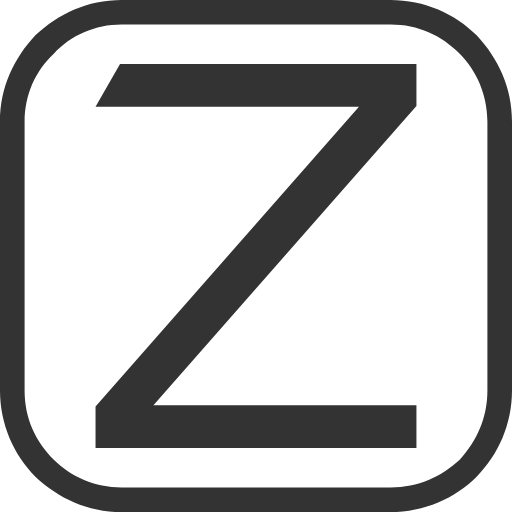
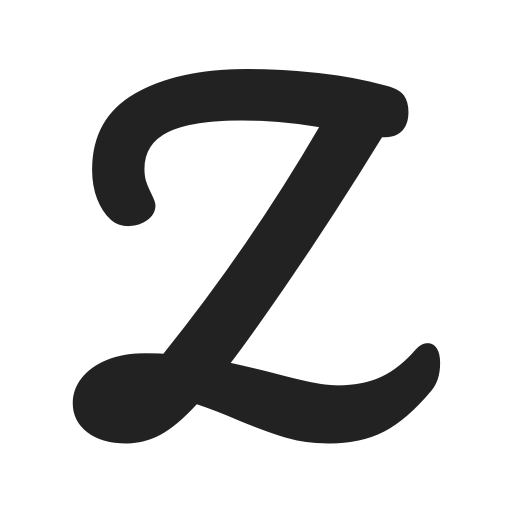
更换favicon ZaNksC/zanks-blog@327454f339bd92b5c9535e444a97a26abed3a063

diff --git a/archives/index.html b/archives/index.html
@@ -73,7 +73,7 @@
   <meta property="og:description" content="archives">
   <meta property="og:locale" content="zh-cn">
   <meta property="og:type" content="article">
-    <meta property="article:modified_time" content="2024-12-30T16:11:58+08:00">
+    <meta property="article:modified_time" content="2024-12-30T16:17:52+08:00">
 <meta name="twitter:card" content="summary">
 <meta name="twitter:title" content="⌛ 时间轴">
 <meta name="twitter:description" content="archives">
@@ -107,7 +107,7 @@
   "wordCount" : "0",
   "inLanguage": "zh",
   "datePublished": "0001-01-01T00:00:00Z",
-  "dateModified": "2024-12-30T16:11:58+08:00",
+  "dateModified": "2024-12-30T16:17:52+08:00",
   "mainEntityOfPage": {
     "@type": "WebPage",
     "@id": "https://www.zanks.link/archives/"
@@ -229,19 +229,19 @@
       <div class="archive-entry">
         <h3 class="archive-entry-title entry-hint-parent">【Hugo】体验篇：Obsidian写作
         </h3>
-        <div class="archive-meta">发布于: <no value> <span title='2024-01-01 04:00:00 +0800 +0800'>2024-01-01</span>&nbsp;·&nbsp;最后修改于: <no value> <span title='2024-12-30 16:11:58 +0800 +0800'>2024-12-30</span>&nbsp;·&nbsp;2 分钟&nbsp;·&nbsp;224 字&nbsp;·&nbsp;Zanks</div>
+        <div class="archive-meta">发布于: <no value> <span title='2024-01-01 04:00:00 +0800 +0800'>2024-01-01</span>&nbsp;·&nbsp;最后修改于: <no value> <span title='2024-12-30 16:17:52 +0800 +0800'>2024-12-30</span>&nbsp;·&nbsp;2 分钟&nbsp;·&nbsp;224 字&nbsp;·&nbsp;Zanks</div>
         <a class="entry-link" aria-label="post link to 【Hugo】体验篇：Obsidian写作" href="https://www.zanks.link/2024/01/01/hugo-3/"></a>
       </div>
       <div class="archive-entry">
         <h3 class="archive-entry-title entry-hint-parent">【Hugo】进阶篇：PaperMod主题美化
         </h3>
-        <div class="archive-meta">发布于: <no value> <span title='2024-01-01 02:00:00 +0800 +0800'>2024-01-01</span>&nbsp;·&nbsp;最后修改于: <no value> <span title='2024-12-30 16:11:58 +0800 +0800'>2024-12-30</span>&nbsp;·&nbsp;17 分钟&nbsp;·&nbsp;3491 字&nbsp;·&nbsp;Zanks</div>
+        <div class="archive-meta">发布于: <no value> <span title='2024-01-01 02:00:00 +0800 +0800'>2024-01-01</span>&nbsp;·&nbsp;最后修改于: <no value> <span title='2024-12-30 16:17:52 +0800 +0800'>2024-12-30</span>&nbsp;·&nbsp;17 分钟&nbsp;·&nbsp;3491 字&nbsp;·&nbsp;Zanks</div>
         <a class="entry-link" aria-label="post link to 【Hugo】进阶篇：PaperMod主题美化" href="https://www.zanks.link/2024/01/01/hugo-2/"></a>
       </div>
       <div class="archive-entry">
         <h3 class="archive-entry-title entry-hint-parent">【Hugo】基础篇：个人博客搭建
         </h3>
-        <div class="archive-meta">发布于: <no value> <span title='2024-01-01 00:00:00 +0800 +0800'>2024-01-01</span>&nbsp;·&nbsp;最后修改于: <no value> <span title='2024-12-30 16:11:58 +0800 +0800'>2024-12-30</span>&nbsp;·&nbsp;5 分钟&nbsp;·&nbsp;987 字&nbsp;·&nbsp;Zanks</div>
+        <div class="archive-meta">发布于: <no value> <span title='2024-01-01 00:00:00 +0800 +0800'>2024-01-01</span>&nbsp;·&nbsp;最后修改于: <no value> <span title='2024-12-30 16:17:52 +0800 +0800'>2024-12-30</span>&nbsp;·&nbsp;5 分钟&nbsp;·&nbsp;987 字&nbsp;·&nbsp;Zanks</div>
         <a class="entry-link" aria-label="post link to 【Hugo】基础篇：个人博客搭建" href="https://www.zanks.link/2024/01/01/hugo-1/"></a>
       </div>
     </div>

diff --git a/posts/index.html b/posts/index.html
@@ -193,7 +193,7 @@
   <div class="entry-content">
     <p>装修一下驾驶舱，让我们扬帆起航。我们应当知道，航海比造船更具魅力与挑战。</p>
   </div>
-  <footer class="entry-footer">发布于: <no value> <span title='2024-01-01 04:00:00 +0800 +0800'>2024-01-01</span>&nbsp;·&nbsp;最后修改于: <no value> <span title='2024-12-30 16:11:58 +0800 +0800'>2024-12-30</span>&nbsp;·&nbsp;2 分钟&nbsp;·&nbsp;224 字&nbsp;·&nbsp;Zanks</footer>
+  <footer class="entry-footer">发布于: <no value> <span title='2024-01-01 04:00:00 +0800 +0800'>2024-01-01</span>&nbsp;·&nbsp;最后修改于: <no value> <span title='2024-12-30 16:17:52 +0800 +0800'>2024-12-30</span>&nbsp;·&nbsp;2 分钟&nbsp;·&nbsp;224 字&nbsp;·&nbsp;Zanks</footer>
   <a class="entry-link" aria-label="post link to 【Hugo】体验篇：Obsidian写作" href="https://www.zanks.link/2024/01/01/hugo-3/"></a>
 </article>
 
@@ -205,7 +205,7 @@
   <div class="entry-content">
     <p>装修一下旧时代的船，才能开门迎接更多的客人。</p>
   </div>
-  <footer class="entry-footer">发布于: <no value> <span title='2024-01-01 02:00:00 +0800 +0800'>2024-01-01</span>&nbsp;·&nbsp;最后修改于: <no value> <span title='2024-12-30 16:11:58 +0800 +0800'>2024-12-30</span>&nbsp;·&nbsp;17 分钟&nbsp;·&nbsp;3491 字&nbsp;·&nbsp;Zanks</footer>
+  <footer class="entry-footer">发布于: <no value> <span title='2024-01-01 02:00:00 +0800 +0800'>2024-01-01</span>&nbsp;·&nbsp;最后修改于: <no value> <span title='2024-12-30 16:17:52 +0800 +0800'>2024-12-30</span>&nbsp;·&nbsp;17 分钟&nbsp;·&nbsp;3491 字&nbsp;·&nbsp;Zanks</footer>
   <a class="entry-link" aria-label="post link to 【Hugo】进阶篇：PaperMod主题美化" href="https://www.zanks.link/2024/01/01/hugo-2/"></a>
 </article>
 
@@ -217,7 +217,7 @@
   <div class="entry-content">
     <p>旧时代的船，想要载新世界的梦</p>
   </div>
-  <footer class="entry-footer">发布于: <no value> <span title='2024-01-01 00:00:00 +0800 +0800'>2024-01-01</span>&nbsp;·&nbsp;最后修改于: <no value> <span title='2024-12-30 16:11:58 +0800 +0800'>2024-12-30</span>&nbsp;·&nbsp;5 分钟&nbsp;·&nbsp;987 字&nbsp;·&nbsp;Zanks</footer>
+  <footer class="entry-footer">发布于: <no value> <span title='2024-01-01 00:00:00 +0800 +0800'>2024-01-01</span>&nbsp;·&nbsp;最后修改于: <no value> <span title='2024-12-30 16:17:52 +0800 +0800'>2024-12-30</span>&nbsp;·&nbsp;5 分钟&nbsp;·&nbsp;987 字&nbsp;·&nbsp;Zanks</footer>
   <a class="entry-link" aria-label="post link to 【Hugo】基础篇：个人博客搭建" href="https://www.zanks.link/2024/01/01/hugo-1/"></a>
 </article>
     </main>

diff --git a/tags/hugo/index.html b/tags/hugo/index.html
@@ -181,7 +181,7 @@
   <div class="entry-content">
     <p>装修一下驾驶舱，让我们扬帆起航。我们应当知道，航海比造船更具魅力与挑战。</p>
   </div>
-  <footer class="entry-footer">发布于: <no value> <span title='2024-01-01 04:00:00 +0800 +0800'>2024-01-01</span>&nbsp;·&nbsp;最后修改于: <no value> <span title='2024-12-30 16:11:58 +0800 +0800'>2024-12-30</span>&nbsp;·&nbsp;2 分钟&nbsp;·&nbsp;224 字&nbsp;·&nbsp;Zanks</footer>
+  <footer class="entry-footer">发布于: <no value> <span title='2024-01-01 04:00:00 +0800 +0800'>2024-01-01</span>&nbsp;·&nbsp;最后修改于: <no value> <span title='2024-12-30 16:17:52 +0800 +0800'>2024-12-30</span>&nbsp;·&nbsp;2 分钟&nbsp;·&nbsp;224 字&nbsp;·&nbsp;Zanks</footer>
   <a class="entry-link" aria-label="post link to 【Hugo】体验篇：Obsidian写作" href="https://www.zanks.link/2024/01/01/hugo-3/"></a>
 </article>
 
@@ -193,7 +193,7 @@
   <div class="entry-content">
     <p>装修一下旧时代的船，才能开门迎接更多的客人。</p>
   </div>
-  <footer class="entry-footer">发布于: <no value> <span title='2024-01-01 02:00:00 +0800 +0800'>2024-01-01</span>&nbsp;·&nbsp;最后修改于: <no value> <span title='2024-12-30 16:11:58 +0800 +0800'>2024-12-30</span>&nbsp;·&nbsp;17 分钟&nbsp;·&nbsp;3491 字&nbsp;·&nbsp;Zanks</footer>
+  <footer class="entry-footer">发布于: <no value> <span title='2024-01-01 02:00:00 +0800 +0800'>2024-01-01</span>&nbsp;·&nbsp;最后修改于: <no value> <span title='2024-12-30 16:17:52 +0800 +0800'>2024-12-30</span>&nbsp;·&nbsp;17 分钟&nbsp;·&nbsp;3491 字&nbsp;·&nbsp;Zanks</footer>
   <a class="entry-link" aria-label="post link to 【Hugo】进阶篇：PaperMod主题美化" href="https://www.zanks.link/2024/01/01/hugo-2/"></a>
 </article>
 
@@ -205,7 +205,7 @@
   <div class="entry-content">
     <p>旧时代的船，想要载新世界的梦</p>
   </div>
-  <footer class="entry-footer">发布于: <no value> <span title='2024-01-01 00:00:00 +0800 +0800'>2024-01-01</span>&nbsp;·&nbsp;最后修改于: <no value> <span title='2024-12-30 16:11:58 +0800 +0800'>2024-12-30</span>&nbsp;·&nbsp;5 分钟&nbsp;·&nbsp;987 字&nbsp;·&nbsp;Zanks</footer>
+  <footer class="entry-footer">发布于: <no value> <span title='2024-01-01 00:00:00 +0800 +0800'>2024-01-01</span>&nbsp;·&nbsp;最后修改于: <no value> <span title='2024-12-30 16:17:52 +0800 +0800'>2024-12-30</span>&nbsp;·&nbsp;5 分钟&nbsp;·&nbsp;987 字&nbsp;·&nbsp;Zanks</footer>
   <a class="entry-link" aria-label="post link to 【Hugo】基础篇：个人博客搭建" href="https://www.zanks.link/2024/01/01/hugo-1/"></a>
 </article>
     </main>

diff --git a/tags/建站/index.html b/tags/建站/index.html
@@ -181,7 +181,7 @@
   <div class="entry-content">
     <p>装修一下驾驶舱，让我们扬帆起航。我们应当知道，航海比造船更具魅力与挑战。</p>
   </div>
-  <footer class="entry-footer">发布于: <no value> <span title='2024-01-01 04:00:00 +0800 +0800'>2024-01-01</span>&nbsp;·&nbsp;最后修改于: <no value> <span title='2024-12-30 16:11:58 +0800 +0800'>2024-12-30</span>&nbsp;·&nbsp;2 分钟&nbsp;·&nbsp;224 字&nbsp;·&nbsp;Zanks</footer>
+  <footer class="entry-footer">发布于: <no value> <span title='2024-01-01 04:00:00 +0800 +0800'>2024-01-01</span>&nbsp;·&nbsp;最后修改于: <no value> <span title='2024-12-30 16:17:52 +0800 +0800'>2024-12-30</span>&nbsp;·&nbsp;2 分钟&nbsp;·&nbsp;224 字&nbsp;·&nbsp;Zanks</footer>
   <a class="entry-link" aria-label="post link to 【Hugo】体验篇：Obsidian写作" href="https://www.zanks.link/2024/01/01/hugo-3/"></a>
 </article>
 
@@ -193,7 +193,7 @@
   <div class="entry-content">
     <p>装修一下旧时代的船，才能开门迎接更多的客人。</p>
   </div>
-  <footer class="entry-footer">发布于: <no value> <span title='2024-01-01 02:00:00 +0800 +0800'>2024-01-01</span>&nbsp;·&nbsp;最后修改于: <no value> <span title='2024-12-30 16:11:58 +0800 +0800'>2024-12-30</span>&nbsp;·&nbsp;17 分钟&nbsp;·&nbsp;3491 字&nbsp;·&nbsp;Zanks</footer>
+  <footer class="entry-footer">发布于: <no value> <span title='2024-01-01 02:00:00 +0800 +0800'>2024-01-01</span>&nbsp;·&nbsp;最后修改于: <no value> <span title='2024-12-30 16:17:52 +0800 +0800'>2024-12-30</span>&nbsp;·&nbsp;17 分钟&nbsp;·&nbsp;3491 字&nbsp;·&nbsp;Zanks</footer>
   <a class="entry-link" aria-label="post link to 【Hugo】进阶篇：PaperMod主题美化" href="https://www.zanks.link/2024/01/01/hugo-2/"></a>
 </article>
 
@@ -205,7 +205,7 @@
   <div class="entry-content">
     <p>旧时代的船，想要载新世界的梦</p>
   </div>
-  <footer class="entry-footer">发布于: <no value> <span title='2024-01-01 00:00:00 +0800 +0800'>2024-01-01</span>&nbsp;·&nbsp;最后修改于: <no value> <span title='2024-12-30 16:11:58 +0800 +0800'>2024-12-30</span>&nbsp;·&nbsp;5 分钟&nbsp;·&nbsp;987 字&nbsp;·&nbsp;Zanks</footer>
+  <footer class="entry-footer">发布于: <no value> <span title='2024-01-01 00:00:00 +0800 +0800'>2024-01-01</span>&nbsp;·&nbsp;最后修改于: <no value> <span title='2024-12-30 16:17:52 +0800 +0800'>2024-12-30</span>&nbsp;·&nbsp;5 分钟&nbsp;·&nbsp;987 字&nbsp;·&nbsp;Zanks</footer>
   <a class="entry-link" aria-label="post link to 【Hugo】基础篇：个人博客搭建" href="https://www.zanks.link/2024/01/01/hugo-1/"></a>
 </article>
     </main>

diff --git a/tags/papermod/index.html b/tags/papermod/index.html
@@ -181,7 +181,7 @@
   <div class="entry-content">
     <p>装修一下旧时代的船，才能开门迎接更多的客人。</p>
   </div>
-  <footer class="entry-footer">发布于: <no value> <span title='2024-01-01 02:00:00 +0800 +0800'>2024-01-01</span>&nbsp;·&nbsp;最后修改于: <no value> <span title='2024-12-30 16:11:58 +0800 +0800'>2024-12-30</span>&nbsp;·&nbsp;17 分钟&nbsp;·&nbsp;3491 字&nbsp;·&nbsp;Zanks</footer>
+  <footer class="entry-footer">发布于: <no value> <span title='2024-01-01 02:00:00 +0800 +0800'>2024-01-01</span>&nbsp;·&nbsp;最后修改于: <no value> <span title='2024-12-30 16:17:52 +0800 +0800'>2024-12-30</span>&nbsp;·&nbsp;17 分钟&nbsp;·&nbsp;3491 字&nbsp;·&nbsp;Zanks</footer>
   <a class="entry-link" aria-label="post link to 【Hugo】进阶篇：PaperMod主题美化" href="https://www.zanks.link/2024/01/01/hugo-2/"></a>
 </article>
 
@@ -193,7 +193,7 @@
   <div class="entry-content">
     <p>旧时代的船，想要载新世界的梦</p>
   </div>
-  <footer class="entry-footer">发布于: <no value> <span title='2024-01-01 00:00:00 +0800 +0800'>2024-01-01</span>&nbsp;·&nbsp;最后修改于: <no value> <span title='2024-12-30 16:11:58 +0800 +0800'>2024-12-30</span>&nbsp;·&nbsp;5 分钟&nbsp;·&nbsp;987 字&nbsp;·&nbsp;Zanks</footer>
+  <footer class="entry-footer">发布于: <no value> <span title='2024-01-01 00:00:00 +0800 +0800'>2024-01-01</span>&nbsp;·&nbsp;最后修改于: <no value> <span title='2024-12-30 16:17:52 +0800 +0800'>2024-12-30</span>&nbsp;·&nbsp;5 分钟&nbsp;·&nbsp;987 字&nbsp;·&nbsp;Zanks</footer>
   <a class="entry-link" aria-label="post link to 【Hugo】基础篇：个人博客搭建" href="https://www.zanks.link/2024/01/01/hugo-1/"></a>
 </article>
     </main>

diff --git a/2024/01/01/hugo-2/index.html b/2024/01/01/hugo-2/index.html
@@ -75,7 +75,7 @@
   <meta property="og:type" content="article">
     <meta property="article:section" content="posts">
     <meta property="article:published_time" content="2024-01-01T02:00:00+08:00">
-    <meta property="article:modified_time" content="2024-12-30T16:11:58+08:00">
+    <meta property="article:modified_time" content="2024-12-30T16:17:52+08:00">
     <meta property="article:tag" content="Hugo">
     <meta property="article:tag" content="PaperMod">
     <meta property="article:tag" content="建站">
@@ -118,7 +118,7 @@
   "wordCount" : "3491",
   "inLanguage": "zh",
   "datePublished": "2024-01-01T02:00:00+08:00",
-  "dateModified": "2024-12-30T16:11:58+08:00",
+  "dateModified": "2024-12-30T16:17:52+08:00",
   "author":{
     "@type": "Person",
     "name": "Zanks"
@@ -231,7 +231,7 @@
     <h1 class="post-title entry-hint-parent" style="margin-top: 10px;">
       【Hugo】进阶篇：PaperMod主题美化
     </h1>
-    <div class="post-meta" style="margin-top: 20px;">发布于: <no value> <span title='2024-01-01 02:00:00 +0800 +0800'>2024-01-01</span>&nbsp;·&nbsp;最后修改于: <no value> <span title='2024-12-30 16:11:58 +0800 +0800'>2024-12-30</span>&nbsp;·&nbsp;17 分钟&nbsp;·&nbsp;3491 字&nbsp;·&nbsp;Zanks
+    <div class="post-meta" style="margin-top: 20px;">发布于: <no value> <span title='2024-01-01 02:00:00 +0800 +0800'>2024-01-01</span>&nbsp;·&nbsp;最后修改于: <no value> <span title='2024-12-30 16:17:52 +0800 +0800'>2024-12-30</span>&nbsp;·&nbsp;17 分钟&nbsp;·&nbsp;3491 字&nbsp;·&nbsp;Zanks
 
 </div>
 

diff --git a/2024/01/01/hugo-1/index.html b/2024/01/01/hugo-1/index.html
@@ -75,7 +75,7 @@
   <meta property="og:type" content="article">
     <meta property="article:section" content="posts">
     <meta property="article:published_time" content="2024-01-01T00:00:00+08:00">
-    <meta property="article:modified_time" content="2024-12-30T16:11:58+08:00">
+    <meta property="article:modified_time" content="2024-12-30T16:17:52+08:00">
     <meta property="article:tag" content="建站">
     <meta property="article:tag" content="Hugo">
     <meta property="article:tag" content="PaperMod">
@@ -118,7 +118,7 @@
   "wordCount" : "987",
   "inLanguage": "zh",
   "datePublished": "2024-01-01T00:00:00+08:00",
-  "dateModified": "2024-12-30T16:11:58+08:00",
+  "dateModified": "2024-12-30T16:17:52+08:00",
   "author":{
     "@type": "Person",
     "name": "Zanks"
@@ -231,7 +231,7 @@
     <h1 class="post-title entry-hint-parent" style="margin-top: 10px;">
       【Hugo】基础篇：个人博客搭建
     </h1>
-    <div class="post-meta" style="margin-top: 20px;">发布于: <no value> <span title='2024-01-01 00:00:00 +0800 +0800'>2024-01-01</span>&nbsp;·&nbsp;最后修改于: <no value> <span title='2024-12-30 16:11:58 +0800 +0800'>2024-12-30</span>&nbsp;·&nbsp;5 分钟&nbsp;·&nbsp;987 字&nbsp;·&nbsp;Zanks
+    <div class="post-meta" style="margin-top: 20px;">发布于: <no value> <span title='2024-01-01 00:00:00 +0800 +0800'>2024-01-01</span>&nbsp;·&nbsp;最后修改于: <no value> <span title='2024-12-30 16:17:52 +0800 +0800'>2024-12-30</span>&nbsp;·&nbsp;5 分钟&nbsp;·&nbsp;987 字&nbsp;·&nbsp;Zanks
 
 </div>
 

diff --git a/2024/01/01/hugo-3/index.html b/2024/01/01/hugo-3/index.html
@@ -75,7 +75,7 @@
   <meta property="og:type" content="article">
     <meta property="article:section" content="posts">
     <meta property="article:published_time" content="2024-01-01T04:00:00+08:00">
-    <meta property="article:modified_time" content="2024-12-30T16:11:58+08:00">
+    <meta property="article:modified_time" content="2024-12-30T16:17:52+08:00">
     <meta property="article:tag" content="Hugo">
     <meta property="article:tag" content="建站">
     <meta property="article:tag" content="Obsidian">
@@ -118,7 +118,7 @@
   "wordCount" : "224",
   "inLanguage": "zh",
   "datePublished": "2024-01-01T04:00:00+08:00",
-  "dateModified": "2024-12-30T16:11:58+08:00",
+  "dateModified": "2024-12-30T16:17:52+08:00",
   "author":{
     "@type": "Person",
     "name": "Zanks"
@@ -231,7 +231,7 @@
     <h1 class="post-title entry-hint-parent" style="margin-top: 10px;">
       【Hugo】体验篇：Obsidian写作
     </h1>
-    <div class="post-meta" style="margin-top: 20px;">发布于: <no value> <span title='2024-01-01 04:00:00 +0800 +0800'>2024-01-01</span>&nbsp;·&nbsp;最后修改于: <no value> <span title='2024-12-30 16:11:58 +0800 +0800'>2024-12-30</span>&nbsp;·&nbsp;2 分钟&nbsp;·&nbsp;224 字&nbsp;·&nbsp;Zanks
+    <div class="post-meta" style="margin-top: 20px;">发布于: <no value> <span title='2024-01-01 04:00:00 +0800 +0800'>2024-01-01</span>&nbsp;·&nbsp;最后修改于: <no value> <span title='2024-12-30 16:17:52 +0800 +0800'>2024-12-30</span>&nbsp;·&nbsp;2 分钟&nbsp;·&nbsp;224 字&nbsp;·&nbsp;Zanks
 
 </div>
 

diff --git a/tags/obsidian/index.html b/tags/obsidian/index.html
@@ -181,7 +181,7 @@
   <div class="entry-content">
     <p>装修一下驾驶舱，让我们扬帆起航。我们应当知道，航海比造船更具魅力与挑战。</p>
   </div>
-  <footer class="entry-footer">发布于: <no value> <span title='2024-01-01 04:00:00 +0800 +0800'>2024-01-01</span>&nbsp;·&nbsp;最后修改于: <no value> <span title='2024-12-30 16:11:58 +0800 +0800'>2024-12-30</span>&nbsp;·&nbsp;2 分钟&nbsp;·&nbsp;224 字&nbsp;·&nbsp;Zanks</footer>
+  <footer class="entry-footer">发布于: <no value> <span title='2024-01-01 04:00:00 +0800 +0800'>2024-01-01</span>&nbsp;·&nbsp;最后修改于: <no value> <span title='2024-12-30 16:17:52 +0800 +0800'>2024-12-30</span>&nbsp;·&nbsp;2 分钟&nbsp;·&nbsp;224 字&nbsp;·&nbsp;Zanks</footer>
   <a class="entry-link" aria-label="post link to 【Hugo】体验篇：Obsidian写作" href="https://www.zanks.link/2024/01/01/hugo-3/"></a>
 </article>
     </main>

diff --git a/friends/index.html b/friends/index.html
@@ -74,7 +74,7 @@
   <meta property="og:locale" content="zh-cn">
   <meta property="og:type" content="article">
     <meta property="article:published_time" content="2024-01-01T00:00:00+08:00">
-    <meta property="article:modified_time" content="2024-12-30T16:11:58+08:00">
+    <meta property="article:modified_time" content="2024-12-30T16:17:52+08:00">
 <meta name="twitter:card" content="summary">
 <meta name="twitter:title" content="🧑🤝🧑 Zanks的朋友们 🧑🤝🧑">
 <meta name="twitter:description" content="排名不分先后，按时间顺序添加。如需新增请留言，或通过其他方式联系我。">
@@ -108,7 +108,7 @@
   "wordCount" : "1",
   "inLanguage": "zh",
   "datePublished": "2024-01-01T00:00:00+08:00",
-  "dateModified": "2024-12-30T16:11:58+08:00",
+  "dateModified": "2024-12-30T16:17:52+08:00",
   "author":{
     "@type": "Person",
     "name": "Zanks"

diff --git a/message/index.html b/message/index.html
@@ -73,7 +73,7 @@
   <meta property="og:locale" content="zh-cn">
   <meta property="og:type" content="article">
     <meta property="article:published_time" content="2024-12-13T21:14:22+08:00">
-    <meta property="article:modified_time" content="2024-12-30T16:11:58+08:00">
+    <meta property="article:modified_time" content="2024-12-30T16:17:52+08:00">
 <meta name="twitter:card" content="summary">
 <meta name="twitter:title" content="💬 留言板">
 <meta name="twitter:description" content="">
@@ -107,7 +107,7 @@
   "wordCount" : "0",
   "inLanguage": "zh",
   "datePublished": "2024-12-13T21:14:22+08:00",
-  "dateModified": "2024-12-30T16:11:58+08:00",
+  "dateModified": "2024-12-30T16:17:52+08:00",
   "mainEntityOfPage": {
     "@type": "WebPage",
     "@id": "https://www.zanks.link/message/"

diff --git a/recipe/index.html b/recipe/index.html
@@ -93,7 +93,7 @@
   <meta property="og:locale" content="zh-cn">
   <meta property="og:type" content="article">
     <meta property="article:published_time" content="2024-01-01T00:00:00+08:00">
-    <meta property="article:modified_time" content="2024-12-30T16:11:58+08:00">
+    <meta property="article:modified_time" content="2024-12-30T16:17:52+08:00">
 <meta name="twitter:card" content="summary">
 <meta name="twitter:title" content="🍳 Zanks的私人食谱 🍳">
 <meta name="twitter:description" content="小高姐三酱牛肉
@@ -145,7 +145,7 @@
   "wordCount" : "21",
   "inLanguage": "zh",
   "datePublished": "2024-01-01T00:00:00+08:00",
-  "dateModified": "2024-12-30T16:11:58+08:00",
+  "dateModified": "2024-12-30T16:17:52+08:00",
   "author":{
     "@type": "Person",
     "name": "Zanks"
